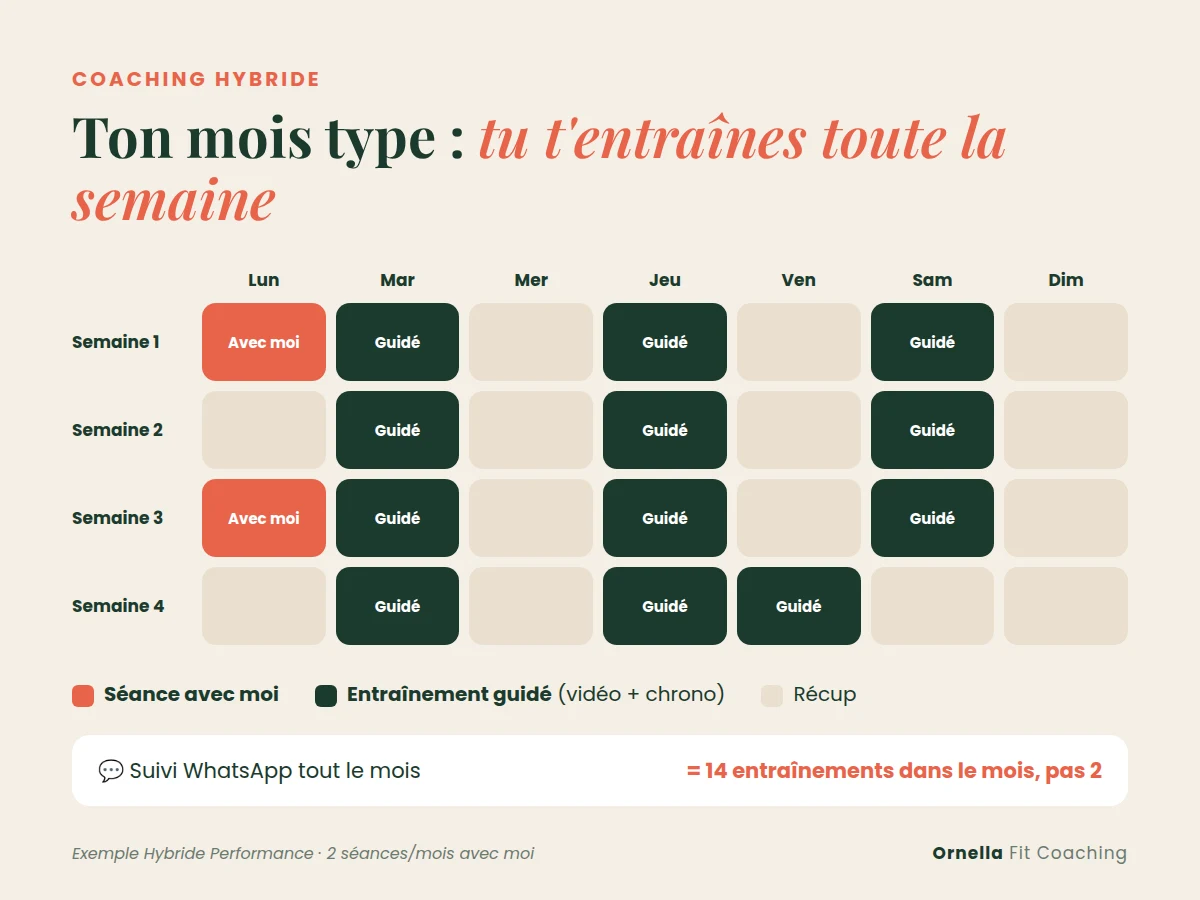
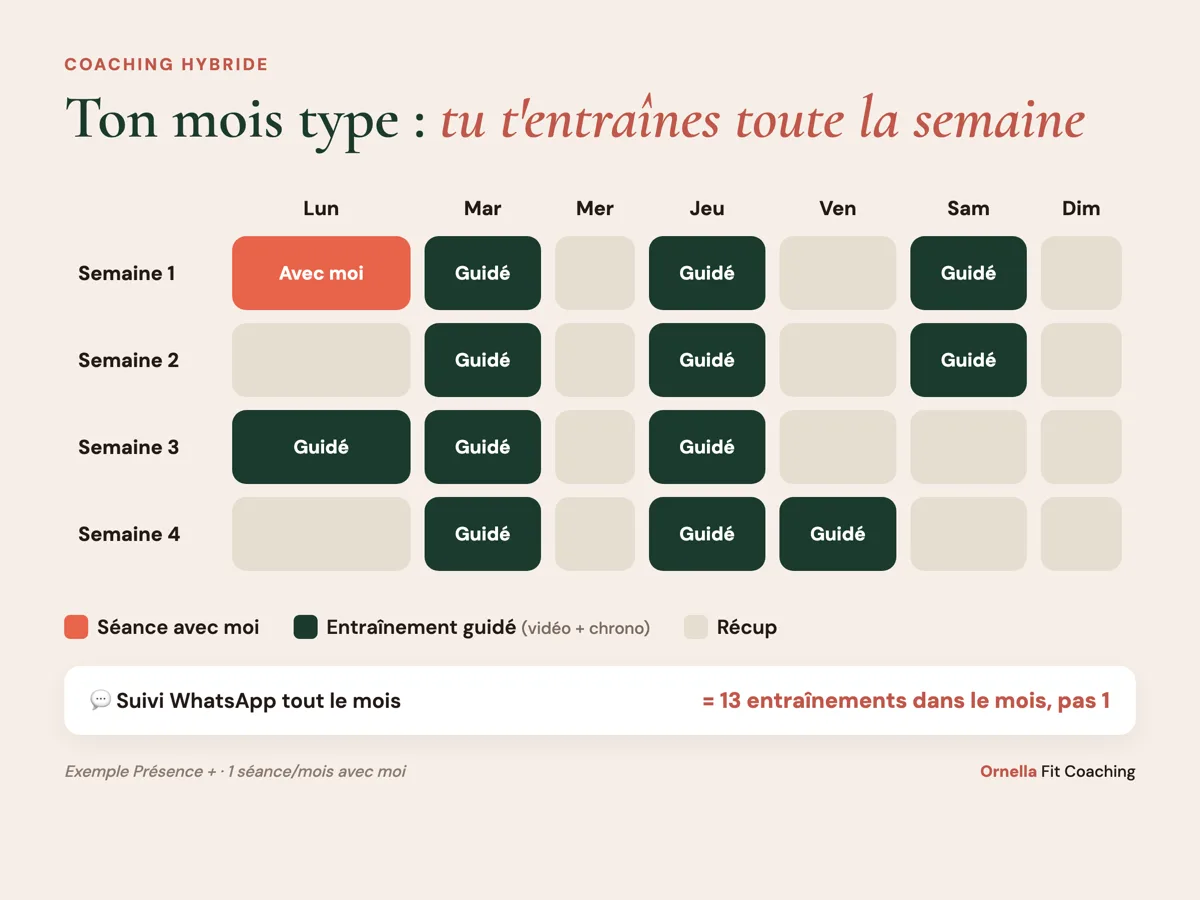
Présence + : présentation value premium (fin du +X€), '2/mois sur devis', cohérence hybride 149€ sur tout le site + visuel 'mois type' corrigé
- offres.html : value-stack '+70€+90€' retiré (pas assez premium), remplacé par note sobre 'tout compris, <5€/jour' + mention '2 séances/mois sur devis' ; sous-titre carte sans '+250€'
- Hybride 99->149 (Présence +) corrigé partout : index, links, quiz, coach-sportif-ou-salle, CGV (table + art.7)
- Distanciel (89/99€) NON touché
- images/apercu/semaine-type-hybride.webp régénéré : 1 séance/mois (= 13 entraînements), footer 'Présence +' ; ?v=2 pour cache

diff --git a/offres.html b/offres.html
@@ -818,7 +818,7 @@ height="0" width="0" style="display:none;visibility:hidden"></iframe></noscript>
         <div class="rf-fcard-name">Présence +</div>
         <div class="rf-fcard-for">« Je veux progresser toute la semaine, pas seulement le jour où on s'entraîne ensemble. »</div>
         <div class="rf-fcard-price">149€ <small>/ mois · l'hybride : 1 séance avec moi + programme &amp; suivi toute la semaine</small></div>
-        <div style="font-size:.78rem;color:var(--rf-mute);line-height:1.5;margin:-6px 0 10px;">1 rendez-vous présentiel/mois <b style="color:var(--rf-ink);">+</b> programme sur-mesure <b style="color:var(--rf-ink);">+</b> WhatsApp illimité — <b style="color:var(--rf-green);">plus de 250€ de valeur</b></div>
+        <div style="font-size:.78rem;color:var(--rf-mute);line-height:1.5;margin:-6px 0 10px;">1 rendez-vous en présentiel par mois, un programme sur-mesure et un suivi au quotidien — <b style="color:var(--rf-ink);">tout compris</b>.</div>
         <div class="rf-fcard-hero">Tes séances avec moi <b>+ un vrai programme sur-mesure</b> pour t'entraîner seule le reste de la semaine. Tu t'entraînes bien plus — sans jamais être livrée à toi-même.</div>
         <ul>
           <li><strong>Un vrai programme interactif entre nos séances</strong> — jusqu'à 5 entraînements guidés (vidéos + chrono), pas une simple liste d'exercices</li>
@@ -1356,7 +1356,7 @@ height="0" width="0" style="display:none;visibility:hidden"></iframe></noscript>
             <figure class="rf-shot rf-wide" onclick="rfLightbox('images/apercu/programme-reel-seance.webp')"><img src="images/apercu/programme-reel-seance.webp" width="1200" height="900" alt="Séance du programme avec exercices, séries, reps et boutons vidéo de démonstration" loading="lazy"><figcaption>Chaque exo en vidéo</figcaption></figure>
             <figure class="rf-shot rf-wide" onclick="rfLightbox('images/apercu/programme-reel-chrono.webp')"><img src="images/apercu/programme-reel-chrono.webp" width="1200" height="900" alt="Chrono de repos intégré au programme, lancé entre deux séries" loading="lazy"><figcaption>Chrono de repos intégré</figcaption></figure>
             <figure class="rf-shot rf-wide" onclick="rfLightbox('images/apercu/programme-reel-semaine.webp')"><img src="images/apercu/programme-reel-semaine.webp" width="1200" height="900" alt="Vue semaine du programme avec sélection des séances" loading="lazy"><figcaption>Tes séances, semaine par semaine</figcaption></figure>
-            <figure class="rf-shot rf-wide" onclick="rfLightbox('images/apercu/semaine-type-hybride.webp')"><img src="images/apercu/semaine-type-hybride.webp" width="1200" height="900" alt="Exemple de semaine type combinant séances avec la coach et séances en autonomie" loading="lazy"><figcaption>Ta semaine type</figcaption></figure>
+            <figure class="rf-shot rf-wide" onclick="rfLightbox('images/apercu/semaine-type-hybride.webp?v=2')"><img src="images/apercu/semaine-type-hybride.webp?v=2" width="1200" height="900" alt="Exemple de semaine type combinant séances avec la coach et séances en autonomie" loading="lazy"><figcaption>Ta semaine type</figcaption></figure>
             <figure class="rf-shot rf-wide" onclick="rfLightbox('images/apercu/programme-evolutif.webp')"><img src="images/apercu/programme-evolutif.webp" width="1200" height="900" alt="Programme mis à jour toutes les 4 semaines pour suivre ta progression" loading="lazy"><figcaption>Mis à jour toutes les 4 semaines</figcaption></figure>
           </div>
 
@@ -1372,20 +1372,6 @@ height="0" width="0" style="display:none;visibility:hidden"></iframe></noscript>
             <li><b>Suivi WhatsApp</b> entre les séances pour poser tes questions et ajuster si besoin</li>
           </ul>
 
-          <!-- VALUE STACK -->
-          <div style="background:rgba(45,106,79,.07);border:1px solid rgba(45,106,79,.22);border-radius:14px;padding:15px 18px;margin:16px 0 4px;">
-            <div style="font:700 .9rem/1.3 'DM Sans',sans-serif;color:var(--rf-ink);margin-bottom:9px;">Ce que ça vaut vraiment chaque mois</div>
-            <div style="display:flex;justify-content:space-between;gap:12px;padding:4px 0;font-size:.85rem;color:var(--rf-ink2);"><span>🤝 1 séance en présentiel avec moi</span><b style="color:var(--rf-mute);white-space:nowrap;">70€</b></div>
-            <div style="display:flex;justify-content:space-between;gap:12px;padding:4px 0;font-size:.85rem;color:var(--rf-ink2);"><span>📱 Programme 100% sur-mesure, màj chaque mois</span><b style="color:var(--rf-mute);white-space:nowrap;">90€</b></div>
-            <div style="display:flex;justify-content:space-between;gap:12px;padding:4px 0;font-size:.85rem;color:var(--rf-ink2);"><span>💬 Suivi WhatsApp toute la semaine</span><b style="color:var(--rf-mute);white-space:nowrap;">60€</b></div>
-            <div style="display:flex;justify-content:space-between;gap:12px;padding:4px 0;font-size:.85rem;color:var(--rf-ink2);"><span>📊 Bilan + ajustements mensuels</span><b style="color:var(--rf-mute);white-space:nowrap;">40€</b></div>
-            <div style="border-top:1px solid rgba(45,106,79,.25);margin-top:10px;padding-top:10px;display:flex;justify-content:space-between;align-items:baseline;gap:12px;flex-wrap:wrap;">
-              <span style="font:700 .92rem/1.2 'DM Sans',sans-serif;color:var(--rf-green);">+ de 250€ de valeur</span>
-              <span style="font-family:'Cormorant Garamond',Georgia,serif;font-size:1.35rem;font-weight:600;color:var(--rf-terra);white-space:nowrap;">ton tarif&nbsp;: 149€/mois</span>
-            </div>
-            <p style="font-size:.78rem;color:var(--rf-mute);line-height:1.5;margin:9px 0 0;">Soit <b style="color:var(--rf-ink);">moins de 5€/jour</b> pour être accompagnée toute l'année — et <b style="color:var(--rf-ink);">jamais seule</b> entre les séances.</p>
-          </div>
-
           <!-- 3 · PARCOURS + SÉLECTEUR DE DURÉE -->
           <div class="rf-hyb-h">Choisis la durée de ton parcours</div>
           <div style="font-size:.78rem;color:var(--rf-terra);font-weight:700;margin-bottom:2px;">Choisis ton parcours</div>
@@ -1396,7 +1382,8 @@ height="0" width="0" style="display:none;visibility:hidden"></iframe></noscript>
           </div>
           <div id="rows-hyb"></div>
           <div class="rf-push6" id="push6-hyb">✨ Passe au parcours 6 mois&nbsp;: même tarif mensuel <b>et</b> 89€ de cadeaux en plus.</div>
-          <p class="rf-hyb-note"><b style="color:var(--rf-ink);">Le tarif est le même en 3 ou 6 mois</b> — le parcours 6 mois ajoute simplement 89€ de cadeaux. La formule sans engagement offre plus de souplesse, à un tarif un peu plus élevé. Dans tous les cas&nbsp;: 1 séance en présentiel/mois + ton programme sur-mesure + le suivi WhatsApp.</p>
+          <p class="rf-hyb-note"><b style="color:var(--rf-ink);">Un rendez-vous en présentiel par mois, un accompagnement tous les jours</b> — tout est compris, pour moins de 5€ par jour. Le tarif est identique en 3 ou 6 mois (le parcours 6 mois ajoute 89€ de cadeaux)&nbsp;; la formule sans engagement offre plus de souplesse, à un tarif un peu plus élevé.</p>
+          <p class="rf-hyb-note" style="margin-top:8px;">Tu souhaites <b style="color:var(--rf-ink);">2 séances en présentiel par mois</b>&nbsp;? C'est tout à fait possible, sur <b style="color:var(--rf-ink);">devis personnalisé</b> — écris-moi, on construit ta formule ensemble.</p>
 
           <div class="rf-opt-sep">En option</div>
             <p class="rf-opt-sub">Non inclus dans le prix ci-dessus</p>

diff --git a/cgv.html b/cgv.html
@@ -211,8 +211,8 @@ height="0" width="0" style="display:none;visibility:hidden"></iframe></noscript>
     <table class="tarifs">
       <thead><tr><th>Formule</th><th>Parcours 3 ou 6 mois</th><th>Sans engagement</th></tr></thead>
       <tbody>
-        <tr><td>Essentielle <small>(1 séance en présentiel / mois + suivi WhatsApp)</small></td><td>99 €</td><td>119 €</td></tr>
-        <tr><td>Performance <small>(2 séances en présentiel / mois + suivi WhatsApp)</small></td><td>169 €</td><td>189 €</td></tr>
+        <tr><td>Présence + <small>(1 séance en présentiel / mois + programme sur-mesure + suivi WhatsApp)</small></td><td>149 €</td><td>169 €</td></tr>
+        <tr><td>2 séances en présentiel / mois <small>(formule renforcée)</small></td><td colspan="2" style="text-align:center;">sur devis</td></tr>
       </tbody>
     </table>
 
@@ -457,7 +457,7 @@ height="0" width="0" style="display:none;visibility:hidden"></iframe></noscript>
     <p>Le forfait mensuel est proposé à deux tarifs, précisés dans le devis : un tarif <strong>avec engagement</strong> de trois (3) périodes de facturation consécutives (soit trois mois, ou trois périodes de quatre semaines, selon le devis), et un tarif <strong>sans engagement</strong>, plus élevé. Le tarif <strong>avec engagement</strong> est un tarif remisé, accordé en contrepartie d'un accompagnement sur trois périodes, durée nécessaire à la mise en place d'un accompagnement régulier et à l'obtention de résultats durables.</p>
     <p>Le paiement s'effectue par prélèvement SEPA automatique récurrent via <strong>GoCardless</strong>, mensuel ou toutes les <strong>4 semaines</strong> selon le devis, à date anniversaire (date du premier prélèvement). Le paiement de chaque période est dû en intégralité à l'avance, à chaque échéance de prélèvement, quelle que soit l'assiduité du client. Pour le tarif <strong>avec engagement</strong>, les prélèvements sont programmés sur la durée de l'engagement (trois prélèvements pour un engagement de trois mois, six pour un engagement de six mois), à raison d'un prélèvement par période : chaque prélèvement n'est effectué qu'à sa date d'échéance, jamais par anticipation. À l'issue de l'engagement, le forfait se poursuit sans durée déterminée, au tarif prévu au devis, avec un prélèvement reconduit sur le même mandat, jusqu'à sa résiliation dans les conditions de l'article 7.2. Un paiement en plusieurs fois d'une même période peut être accordé sur demande du client et convenu <strong>par écrit</strong> dans le devis ; il ne modifie ni l'engagement, ni les règles de résiliation.</p>
     <h3 id="a7-1bis">7.1 bis — Engagement de six mois (forfait à domicile et coaching hybride)</h3>
-    <p>Le forfait à domicile et le coaching hybride peuvent également être proposés avec un engagement de six (6) périodes de facturation, au tarif précisé dans le devis. Pour le coaching hybride, le parcours de six mois est proposé au <strong>même tarif mensuel que le parcours de trois mois</strong> (Essentielle <strong>99 €/mois</strong>, Performance <strong>169 €/mois</strong>), l'engagement plus long étant récompensé par l'offre commerciale ci-dessous plutôt que par une remise supplémentaire. Les articles 7.2 à 7.6 s'appliquent dans les mêmes conditions. En cas de résiliation prenant effet avant la fin des six périodes, le client perd le bénéfice de la remise et règle, pour chaque période de facturation écoulée à la date d'effet de la résiliation, la différence entre le tarif <strong>sans engagement</strong> et le tarif <strong>avec engagement</strong> de six mois, telle que précisée dans le devis. Les prélèvements restants sont annulés et cette régularisation est prélevée en une seule fois sur le mandat de prélèvement, qui reste actif jusqu'à son règlement. À l'issue des six périodes, le forfait se poursuit sans durée déterminée, au tarif prévu au devis, résiliable dans les conditions de l'article 7.2.</p>
+    <p>Le forfait à domicile et le coaching hybride peuvent également être proposés avec un engagement de six (6) périodes de facturation, au tarif précisé dans le devis. Pour le coaching hybride (offre « Présence + »), le parcours de six mois est proposé au <strong>même tarif mensuel que le parcours de trois mois</strong> (<strong>149 €/mois</strong>, pour une séance en présentiel par mois ; sans engagement <strong>169 €/mois</strong>), l'engagement plus long étant récompensé par l'offre commerciale ci-dessous plutôt que par une remise supplémentaire. Les articles 7.2 à 7.6 s'appliquent dans les mêmes conditions. En cas de résiliation prenant effet avant la fin des six périodes, le client perd le bénéfice de la remise et règle, pour chaque période de facturation écoulée à la date d'effet de la résiliation, la différence entre le tarif <strong>sans engagement</strong> et le tarif <strong>avec engagement</strong> de six mois, telle que précisée dans le devis. Les prélèvements restants sont annulés et cette régularisation est prélevée en une seule fois sur le mandat de prélèvement, qui reste actif jusqu'à son règlement. À l'issue des six périodes, le forfait se poursuit sans durée déterminée, au tarif prévu au devis, résiliable dans les conditions de l'article 7.2.</p>
     <div class="info-box"><p><strong>Offre parcours six mois :</strong> toute souscription d'un parcours de six (6) mois — à domicile, hybride ou à distance — donne droit, à titre d'offre commerciale, à l'accès au programme numérique « Fit Dans Ta Vie » (valeur 49 €) et à un (1) mois d'Option Accompagnement Nutrition (valeur 40 €) offerts, soit <strong>89 € offerts</strong> au total. Ces avantages sont attribués à la souscription, sont sans valeur de reprise et ne donnent lieu à aucun remboursement, avoir ni déduction en cas de résiliation anticipée.</p></div>
     <h3 id="a7-2">7.2 — Résiliation et préavis</h3>
     <p>Le client peut notifier sa résiliation à tout moment, y compris pendant les trois premières périodes et quel qu'en soit le motif, <strong>par écrit</strong> (email à ornellafitcoaching@gmail.com), avec un préavis de <strong>15 jours calendaires</strong> avant la prochaine échéance de prélèvement. Le préavis est décompté à compter de la réception de l'email, dont Ornella Fit Coaching accuse réception. La résiliation ne peut toutefois pas prendre effet avant la fin de la première période de facturation (première période de quatre semaines ou premier mois, selon le devis), dont le prix <strong>reste dû</strong> en intégralité, sauf <strong>motif légitime</strong> (article 7.4) et sous réserve du droit de rétractation (article 14).</p>

diff --git a/coach-sportif-ou-salle-de-sport.html b/coach-sportif-ou-salle-de-sport.html
@@ -40,7 +40,7 @@ j=d.createElement(s),dl=l!='dataLayer'?'&l='+l:'';j.async=true;j.src=
     { "@type": "Question", "name": "Coach sportif ou salle de sport, que choisir ?",
       "acceptedAnswer": { "@type": "Answer", "text": "Tout dépend de ce que tu cherches. La salle de sport te donne un accès aux machines pour environ 30€ par mois, mais tu t'entraînes seule, sans programme adapté ni suivi. Les cours collectifs apportent de l'ambiance, mais c'est la même séance pour tout le groupe, sans correction individuelle ni mesure de tes progrès. Un coach sportif te donne un résultat : un programme construit pour ton corps, une technique corrigée, un créneau fixe et des bilans réguliers. Si tu as déjà essayé la salle seule ou les cours collectifs sans résultat, le coaching est le choix le plus rentable." } },
     { "@type": "Question", "name": "Combien coûte un coach sportif en Essonne ?",
-      "acceptedAnswer": { "@type": "Answer", "text": "Chez Ornella Fit Coaching, l'accompagnement démarre dès 79€ pour un programme sur-mesure à distance, dès 99€/mois en hybride et dès 260€/mois à domicile en Essonne (91) et Hauts-de-Seine (92). Une séance découverte à 50€ permet de tester, et elle est déduite si tu continues. Tous les tarifs sont détaillés sur https://www.ornellafitcoaching.com/offres.html." } },
+      "acceptedAnswer": { "@type": "Answer", "text": "Chez Ornella Fit Coaching, l'accompagnement démarre dès 79€ pour un programme sur-mesure à distance, dès 149€/mois en hybride et dès 260€/mois à domicile en Essonne (91) et Hauts-de-Seine (92). Une séance découverte à 50€ permet de tester, et elle est déduite si tu continues. Tous les tarifs sont détaillés sur https://www.ornellafitcoaching.com/offres.html." } },
     { "@type": "Question", "name": "Peut-on avoir un coach et garder sa salle ?",
       "acceptedAnswer": { "@type": "Answer", "text": "Oui, c'est exactement le principe de la formule Hybride : tu gardes ta salle, et tu y suis un programme construit pour toi, mis à jour toutes les 4 semaines, avec des séances avec ta coach pour corriger ta technique et un suivi entre les séances. Tu profites des machines de la salle et de la méthode d'un coach." } },
     { "@type": "Question", "name": "Les cours collectifs ne suffisent pas pour se transformer ?",
@@ -382,7 +382,7 @@ height="0" width="0" style="display:none;visibility:hidden"></iframe></noscript>
       <li>📲 <b>Un suivi entre les séances</b> et ton espace Mon Suivi : tu n'es plus jamais seule face aux machines.</li>
     </ul>
     <div class="rf-cta-row" style="justify-content:flex-start;">
-      <a href="offres.html#formules" class="rf-btn rf-btn-primary">Découvrir l'Hybride · dès 99€/mois</a>
+      <a href="offres.html#formules" class="rf-btn rf-btn-primary">Découvrir l'Hybride · dès 149€/mois</a>
     </div>
   </div>
 </section>
@@ -410,7 +410,7 @@ height="0" width="0" style="display:none;visibility:hidden"></iframe></noscript>
     <h2 class="rf-h2" style="text-align:center;">Questions <em>fréquentes</em></h2>
     <div style="margin-top:22px;">
       <details><summary>Coach sportif ou salle de sport, que choisir ?</summary><p>Tout dépend de ce que tu cherches. La salle te donne un accès aux machines pour environ 30€ par mois, mais tu t'entraînes seule, sans programme adapté ni suivi. Les cours collectifs apportent de l'ambiance, mais c'est la même séance pour tout le groupe, sans correction individuelle ni mesure de tes progrès. Un coach te donne un résultat : un programme construit pour ton corps, une technique corrigée, un créneau fixe et des bilans réguliers. Si tu as déjà essayé la salle seule ou les cours collectifs sans résultat, le coaching est le choix le plus rentable.</p></details>
-      <details><summary>Combien coûte un coach sportif en Essonne ?</summary><p>Chez moi, l'accompagnement démarre dès 79€ pour un programme sur-mesure à distance, dès 99€/mois en hybride et dès 260€/mois à domicile. Tu peux tester avec une <strong>séance découverte à 50€, déduite si tu continues</strong>. Tous les tarifs sont sur la page <a href="offres.html" class="rf-link">Formules et tarifs</a>.</p></details>
+      <details><summary>Combien coûte un coach sportif en Essonne ?</summary><p>Chez moi, l'accompagnement démarre dès 79€ pour un programme sur-mesure à distance, dès 149€/mois en hybride et dès 260€/mois à domicile. Tu peux tester avec une <strong>séance découverte à 50€, déduite si tu continues</strong>. Tous les tarifs sont sur la page <a href="offres.html" class="rf-link">Formules et tarifs</a>.</p></details>
       <details><summary>Peut-on avoir un coach et garder sa salle ?</summary><p>Oui, c'est exactement le principe de la formule Hybride : tu gardes ta salle et tu y suis un programme construit pour toi, mis à jour toutes les 4 semaines, avec des séances ensemble pour corriger ta technique et un suivi entre les séances.</p></details>
       <details><summary>Les cours collectifs ne suffisent pas pour se transformer ?</summary><p>Les cours collectifs sont parfaits pour se défouler et garder la motivation grâce au groupe. Mais c'est la même séance pour tout le monde, le prof ne peut pas corriger chaque mouvement, et il n'y a ni progression individuelle ni bilan. Pour transformer ton ventre, tes fessiers ou ta silhouette, il faut un programme construit pour ton objectif et quelqu'un qui corrige ta technique : c'est ce que t'apporte un coach.</p></details>
       <details><summary>Une appli de sport ou des vidéos YouTube, ça ne suffit pas ?</summary><p>Une appli est pratique et peu chère, mais elle ne te voit pas : personne ne corrige ta posture, personne n'adapte le programme quand tu stagnes, et personne ne remarque quand tu arrêtes. Avec un coaching à distance, tu gardes la souplesse de t'entraîner chez toi, avec un programme construit après ton bilan, un suivi de tes progrès et des ajustements toutes les 4 semaines.</p></details>

diff --git a/quiz.html b/quiz.html
@@ -415,17 +415,17 @@ const RESULTS = {
     emoji: '🔥',
     eyebrow: 'Coaching Hybride',
     title: 'Coaching Hybride',
-    subtitle: 'Présentiel + suivi entre les séances — dès 99€/mois',
+    subtitle: 'Présentiel + suivi entre les séances — dès 149€/mois',
     why: 'Tu veux être encadrée à domicile ET continuer à progresser entre les séances — je viens chez toi + tu reçois un programme sur-mesure avec vidéos pour t\'entraîner jusqu\'à 4 fois/semaine seule, avec ou sans matériel.',
     benefits: [
-      'Je viens chez toi 1 à 2 fois/mois selon ta formule',
+      'Je viens chez toi 1 fois/mois (2 possibles sur devis)',
       'Programme sur-mesure avec vidéos incluses',
       'Jusqu\'à 4 séances/semaine en autonomie',
       'Avec ou sans matériel — salle ou domicile',
       'Suivi WhatsApp illimité entre les séances',
       'Bilan complet offert, sans engagement'
     ],
-    price: '99€/mois (Essentielle) ou 169€/mois (Performance) · parcours 3 mois ou sans engagement (+20€/mois)',
+    price: '149€/mois (Présence +) · 1 séance en présentiel/mois · parcours 3 mois ou sans engagement (169€/mois)',
     url: 'offres.html#hybride',
     emailSubject: 'Voici l\'offre parfaite pour toi 🔥'
   },
@@ -697,10 +697,10 @@ function quizEmailHtml(r, email, prenom) {
         'Bilan complet offert, sans engagement'
       ],
       prix: `<div style="background:#F7F3F0;border-radius:12px;padding:18px 20px;margin:18px 0;">
-        <p style="font-size:0.78rem;font-weight:700;text-transform:uppercase;letter-spacing:.08em;color:#9A8080;margin-bottom:12px;text-align:center;">Choisis ton rythme</p>
-        <div style="display:flex;justify-content:space-between;font-size:0.85rem;padding:7px 0;border-bottom:1px solid rgba(201,185,154,0.3);"><span style="color:#4A3E3E;">Essentielle — 1 visite/mois</span><span style="color:#C96358;font-weight:700;">99€/mois</span></div>
-        <div style="display:flex;justify-content:space-between;font-size:0.85rem;padding:7px 0;"><span style="color:#4A3E3E;">Performance <span style="background:#C9957A;color:white;font-size:0.7rem;padding:2px 8px;border-radius:50px;">La plus choisie</span></span><span style="color:#C96358;font-weight:700;">169€/mois</span></div>
-        <p style="font-size:0.75rem;color:#9A8080;margin-top:10px;margin-bottom:0;text-align:center;">Parcours 3 mois au tarif remisé, ou sans engagement (+20€/mois) — arrêt possible à tout moment, préavis 15 j (voir CGV)</p>
+        <p style="font-size:0.78rem;font-weight:700;text-transform:uppercase;letter-spacing:.08em;color:#9A8080;margin-bottom:12px;text-align:center;">Ta formule</p>
+        <div style="display:flex;justify-content:space-between;font-size:0.85rem;padding:7px 0;border-bottom:1px solid rgba(201,185,154,0.3);"><span style="color:#4A3E3E;">Présence + — 1 séance présentiel/mois</span><span style="color:#C96358;font-weight:700;">149€/mois</span></div>
+        <div style="display:flex;justify-content:space-between;font-size:0.85rem;padding:7px 0;"><span style="color:#4A3E3E;">2 séances/mois</span><span style="color:#C96358;font-weight:700;">sur devis</span></div>
+        <p style="font-size:0.75rem;color:#9A8080;margin-top:10px;margin-bottom:0;text-align:center;">Parcours 3 mois au tarif remisé, ou sans engagement (169€/mois) — arrêt possible à tout moment, préavis 15 j (voir CGV)</p>
       </div>`,
       cta_main: 'https://calendly.com/ornellafit-coaching/30min',
       cta_main_label: '📅 Réserver mon bilan offert',
@@ -1184,10 +1184,10 @@ p{font-size:0.9rem;color:#4A3E3E;line-height:1.7;margin:0 0 16px;}
   <p>Bonjour,</p>
   <p>D'après tes réponses, je te recommande 👇</p>
   <div class="tag">⭐ Offre la plus choisie</div>
-  <h2>Coaching Hybride Performance — 169€</h2>
-  <p>Tu veux être accompagnée tout en gardant de la flexibilité. Le coaching hybride combine des séances en présentiel et un suivi à distance pour maximiser tes résultats.</p>
+  <h2>Coaching Hybride « Présence + » — 149€/mois</h2>
+  <p>Tu veux être accompagnée tout en gardant de la flexibilité. Le coaching hybride combine une séance en présentiel par mois et un suivi à distance toute la semaine pour maximiser tes résultats.</p>
   <div class="benefits">
-    <div class="benefit"><span>✔</span><span>2 séances présentiel / mois</span></div>
+    <div class="benefit"><span>✔</span><span>1 séance présentiel / mois (2 possibles sur devis)</span></div>
     <div class="benefit"><span>✔</span><span>Suivi personnalisé WhatsApp</span></div>
     <div class="benefit"><span>✔</span><span>Résultats durables et visibles</span></div>
   </div>

diff --git a/index.html b/index.html
@@ -1861,7 +1861,7 @@ height="0" width="0" style="display:none;visibility:hidden"></iframe></noscript>
     <!-- PRIX -->
     <div id="obj-reply-prix" class="obj-reply" style="display:none;">
       <p class="obj-reply-title">Salle de sport : 40€/mois. YouTube : 0€. Résultats : 0.</p>
-      <p class="obj-reply-body">Tu connais le scénario. L'abonnement salle que tu utilises 2 fois puis plus. Les vidéos YouTube génériques pas faites pour ton corps. Les cours collectifs où tout le monde fait la même chose — peu importe ton niveau, tes douleurs, tes objectifs. Et cette sensation d'arriver en salle sans savoir quoi faire, de regarder les autres, de repartir sans être sûre d'avoir bien travaillé. Résultat : tu stagnes, tu te décourages, tu recommences à zéro.<br><br>Mes clientes ont perdu en moyenne 6 cm en 4 mois. Louise −9 cm. Émeline transformée en 2 mois. Avec un programme fait uniquement pour toi — pas copié-collé, pas générique, pas le même pour tout le monde.<br><br>✓ Distanciel dès 89€/mois → programme sur-mesure + suivi WhatsApp<br>✓ Hybride dès 99€/mois → séances avec moi + programme<br>✓ Domicile dès 260€/mois → je viens chez toi + programme + suivi</p>
+      <p class="obj-reply-body">Tu connais le scénario. L'abonnement salle que tu utilises 2 fois puis plus. Les vidéos YouTube génériques pas faites pour ton corps. Les cours collectifs où tout le monde fait la même chose — peu importe ton niveau, tes douleurs, tes objectifs. Et cette sensation d'arriver en salle sans savoir quoi faire, de regarder les autres, de repartir sans être sûre d'avoir bien travaillé. Résultat : tu stagnes, tu te décourages, tu recommences à zéro.<br><br>Mes clientes ont perdu en moyenne 6 cm en 4 mois. Louise −9 cm. Émeline transformée en 2 mois. Avec un programme fait uniquement pour toi — pas copié-collé, pas générique, pas le même pour tout le monde.<br><br>✓ Distanciel dès 89€/mois → programme sur-mesure + suivi WhatsApp<br>✓ Hybride dès 149€/mois → 1 séance avec moi/mois + programme & suivi<br>✓ Domicile dès 260€/mois → je viens chez toi + programme + suivi</p>
     </div>
 
     <!-- TEMPS -->
@@ -2019,8 +2019,8 @@ height="0" width="0" style="display:none;visibility:hidden"></iframe></noscript>
 
       <a href="offres.html" class="apercu-card-mini featured">
         <span class="apercu-mini-icon">💫</span>
-        <span class="apercu-mini-name">Hybride</span>
-        <span class="apercu-mini-price">Dès 99€/mois</span>
+        <span class="apercu-mini-name">Hybride · Présence +</span>
+        <span class="apercu-mini-price">Dès 149€/mois</span>
       </a>
 
       <a href="offres.html" class="apercu-card-mini">

diff --git a/links.html b/links.html
@@ -353,7 +353,7 @@ height="0" width="0" style="display:none;visibility:hidden"></iframe></noscript>
 
     <!-- HYBRIDE — offre phare (hero) -->
     <a href="https://www.ornellafitcoaching.com/offres.html#hybride" class="vp-hero-card" onclick="px('Offre Hybride')">
-      <div class="vp-price-tag">dès 99€/mois · parcours 3 mois</div>
+      <div class="vp-price-tag">dès 149€/mois · parcours 3 mois</div>
       <div class="vp-badge">⭐ Mon offre phare</div>
       <div class="vp-title">Coaching Hybride — Séances + Suivi</div>
       <div class="vp-sub">Le meilleur des deux mondes : séances en présentiel (Essonne) + suivi personnalisé à distance pour ne rien lâcher entre les séances.</div>
